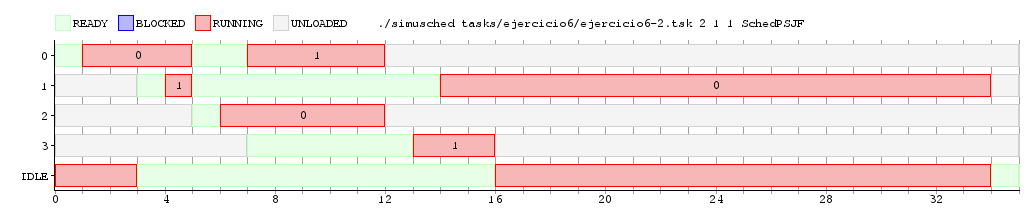
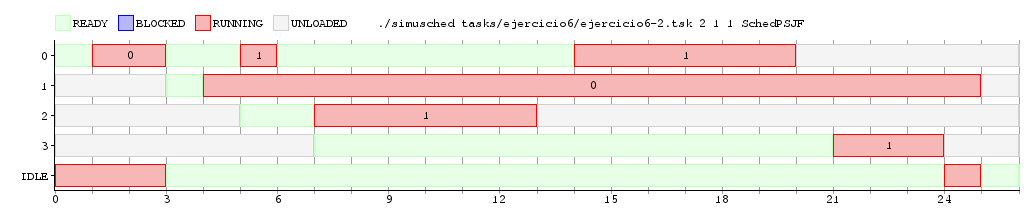
pequenia correccion en sched_psjf

diff --git a/TPs/TP1/simusched/sched_psjf.cpp b/TPs/TP1/simusched/sched_psjf.cpp
@@ -102,7 +102,7 @@ int SchedPSJF::dameLaPosta(int pidActual, int pidPrioritaria){
 	int pidWinner = pidActual;	// Si pidWinner es el actual, sigue corriendo y nada hay que hacer
 
 	/** Si en cambio el pidWinner es la tarea prioritaria en ready, hay que desalojarla y guardar al pidActual para una futura ejecucion **/
-	if(prioridad_actual < prioridad_prioritaria || (prioridad_actual == prioridad_prioritaria && tiempos_actual > tiempos_prioritaria)){
+	if(prioridad_actual > prioridad_prioritaria || (prioridad_actual == prioridad_prioritaria && tiempos_actual > tiempos_prioritaria)){
 		
 		// Actualizo el nuevo pid
 		pidWinner = pidPrioritaria;
